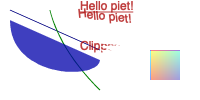
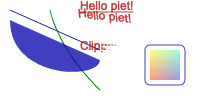
it compiles!

diff --git a/piet-raqote/src/lib.rs b/piet-raqote/src/lib.rs
@@ -1,11 +1,15 @@
 //! The Raqote backend for the Piet 2D graphics abstraction.
 
 // TODO: dpi scaling!!
+
+use std::borrow::Cow;
+
 use raqote::{
-    Spread, ExtendMode, DrawOptions, DrawTarget, Path, PathBuilder, Point, SolidSource, Source, Transform, Winding,
+    Color as RaqoteColor, DrawOptions, DrawTarget, ExtendMode, FilterMode, Path, PathBuilder,
+    Point, SolidSource, Source, Spread, Transform, Winding,
 };
 
-use piet::kurbo::{Affine, PathEl, Rect, Shape, Vec2};
+use piet::kurbo::{Affine, PathEl, Point as PietPoint, Rect, Shape, Vec2};
 
 use font_kit::family_name::FamilyName;
 use font_kit::properties::Properties;
@@ -14,9 +18,10 @@ use font_kit::source::SystemSource;
 use skribo::{make_layout, FontRef, Layout, TextStyle};
 
 use piet::{
-    new_error, Error, ErrorKind, FillRule, Font, FontBuilder, Gradient, GradientStop, ImageFormat,
-    InterpolationMode, LineCap, LineJoin, RenderContext, RoundFrom, RoundInto, StrokeStyle, Text,
-    TextLayout, TextLayoutBuilder, Color,
+    new_error, Color, Error, ErrorKind, FixedGradient, Font, FontBuilder, GradientStop,
+    HitTestPoint, HitTestTextPosition, ImageFormat, InterpolationMode, IntoBrush, LineCap,
+    LineJoin, RenderContext, RoundFrom, RoundInto, StrokeStyle, Text, TextLayout,
+    TextLayoutBuilder,
 };
 
 #[derive(Default)]
@@ -87,7 +92,7 @@ pub struct InternalImage {
 pub struct RaqotePoint(pub Point);
 
 fn split_rgba(rgba: Color) -> (u8, u8, u8, u8) {
-    let rgba = rgba.as_rgba32();
+    let rgba = rgba.as_rgba_u32();
     (
         (rgba >> 24) as u8,
         ((rgba >> 16) & 255) as u8,
@@ -129,9 +134,9 @@ fn affine_to_transform(affine: Affine) -> Transform {
     )
 }
 
-// Convert a RGBA u32 to a ARBG u32
-fn rgba_to_arbg(rgba: u32) -> u32 {
-    (rgba << 24) | (rgba >> 8)
+fn piet_color_to_raqote(color: Color) -> RaqoteColor {
+    let c = split_rgba(color);
+    RaqoteColor::new(c.3, c.0, c.1, c.2)
 }
 
 fn transform_image_to_rect(rect: Rect, image: &raqote::Image) -> Transform {
@@ -139,9 +144,9 @@ fn transform_image_to_rect(rect: Rect, image: &raqote::Image) -> Transform {
 
     dbg!(rect.width());
     dbg!(image.width);
-    let rect_width = rect.width();
-    let rect_height = rect.height();
-// 1 - (16 * 40 / 1000)
+    // let rect_width = rect.width();
+    // let rect_height = rect.height();
+    // 1 - (16 * 40 / 1000)
     let scale_width = (1. - (image.width as f64 * rect.width() / 1000.)) as f32;
     let scale_height = (1. - (image.height as f64 * rect.height() / 1000.)) as f32;
 
@@ -153,11 +158,11 @@ fn transform_image_to_rect(rect: Rect, image: &raqote::Image) -> Transform {
 
     let scale = Transform::create_scale(scale_width, scale_height);
 
-
     dbg!(scale_width * image.width as f32);
 
     // TODO: Move `inverse()` to Raqote
-    translate.post_mul(&scale)
+    // It used to be: translate.post_mul(&scale)
+    translate.post_transform(&scale)
 }
 
 fn shape_to_path(shape: impl Shape) -> Path {
@@ -197,18 +202,27 @@ fn convert_gradient_stops(stops: Vec<GradientStop>) -> Vec<raqote::GradientStop>
         .iter()
         .map(|stop| raqote::GradientStop {
             position: stop.pos,
-            color: rgba_to_arbg(stop.color.as_rgba32()),
+            color: piet_color_to_raqote(stop.color.clone()),
         })
         .collect()
 }
 
-impl<'a> RenderContext for RaqoteRenderContext<'a> {
-    // TODO: this should be a raqote Point (might have to wrap to impl as f32)
-    type Point = RaqotePoint;
-    type Coord = f32;
+#[derive(Clone)]
+pub struct RaqoteBrush<'a>(Source<'a>);
 
+impl<'a> IntoBrush<RaqoteRenderContext<'a>> for RaqoteBrush<'a> {
+    fn make_brush<'b>(
+        &'b self,
+        _piet: &mut RaqoteRenderContext,
+        _bbox: impl FnOnce() -> Rect,
+    ) -> std::borrow::Cow<'b, RaqoteBrush<'a>> {
+        Cow::Borrowed(self)
+    }
+}
+
+impl<'a> RenderContext for RaqoteRenderContext<'a> {
     // The render context must outlive the brush
-    type Brush = Source<'a>;
+    type Brush = RaqoteBrush<'a>;
 
     //QUESTION Text should of type TextLayout??
     // type Text: Text<TextLayout = Self::TextLayout>;
@@ -224,33 +238,37 @@ impl<'a> RenderContext for RaqoteRenderContext<'a> {
 
     fn solid_brush(&mut self, rgba: Color) -> Self::Brush {
         let (r, g, b, a) = split_rgba(rgba);
-        Source::Solid(SolidSource { r, g, b, a })
+        RaqoteBrush(Source::Solid(SolidSource { r, g, b, a }))
     }
 
-    fn gradient(&mut self, gradient: Gradient) -> Result<Self::Brush, Error> {
-        match gradient {
-            Gradient::Linear(gradient) => {
+    fn current_transform(&self) -> Affine {
+        self.current_transform()
+    }
+
+    fn gradient(&mut self, gradient: impl Into<FixedGradient>) -> Result<Self::Brush, Error> {
+        match gradient.into() {
+            FixedGradient::Linear(gradient) => {
                 let stops = convert_gradient_stops(gradient.stops);
                 let start = to_point((gradient.start.x, gradient.start.y));
                 let end = to_point((gradient.end.x, gradient.end.y));
 
-                Ok(Source::new_linear_gradient(
+                Ok(RaqoteBrush(Source::new_linear_gradient(
                     raqote::Gradient { stops },
                     start,
                     end,
-                    Spread::Pad
-                ))
+                    Spread::Pad,
+                )))
             }
-            Gradient::Radial(gradient) => {
+            FixedGradient::Radial(gradient) => {
                 let stops = convert_gradient_stops(gradient.stops);
                 let center = to_point((gradient.center.x, gradient.center.y));
 
-                Ok(Source::new_radial_gradient(
+                Ok(RaqoteBrush(Source::new_radial_gradient(
                     raqote::Gradient { stops },
                     center,
                     gradient.radius as f32,
-                    Spread::Pad
-                ))
+                    Spread::Pad,
+                )))
             }
         }
     }
@@ -262,35 +280,49 @@ impl<'a> RenderContext for RaqoteRenderContext<'a> {
         self.draw_target.clear(source);
     }
 
-    fn stroke(
+    fn stroke(&mut self, shape: impl Shape, brush: &impl IntoBrush<Self>, width: f64) {
+        let brush = brush.make_brush(self, || shape.bounding_box());
+        let path = shape_to_path(shape);
+
+        let mut stroke_style = raqote::StrokeStyle::default();
+
+        stroke_style.width = width.round_into();
+
+        self.draw_target
+            .stroke(&path, &brush.0, &stroke_style, &DrawOptions::default());
+    }
+
+    fn stroke_styled(
         &mut self,
         shape: impl Shape,
-        brush: &Self::Brush,
-        width: impl RoundInto<Self::Coord>,
-        style: Option<&StrokeStyle>,
+        brush: &impl IntoBrush<Self>,
+        width: f64,
+        style: &StrokeStyle,
     ) {
+        let brush = brush.make_brush(self, || shape.bounding_box());
         let path = shape_to_path(shape);
 
         // TODO: Factor this out
         let cap = style
-            .and_then(|style| style.line_cap)
+            .line_cap
             .map(convert_line_cap)
             .unwrap_or(raqote::LineCap::Butt);
 
         let join = style
-            .and_then(|style| style.line_join)
+            .line_join
             .map(convert_line_join)
             .unwrap_or(raqote::LineJoin::Miter);
 
         let width = width.round_into();
 
         let miter_limit = style
-            .and_then(|style| style.miter_limit)
+            .miter_limit
             .map(|miter_limit| miter_limit as f32)
             .unwrap_or(10.0);
 
         let (dash_array, dash_offset) = style
-            .and_then(|style| style.dash.as_ref())
+            .dash
+            .as_ref()
             .map(convert_dash)
             .unwrap_or_else(|| (vec![], 0.0));
 
@@ -304,28 +336,35 @@ impl<'a> RenderContext for RaqoteRenderContext<'a> {
         };
 
         self.draw_target
-            .stroke(&path, brush, &stroke_style, &DrawOptions::default());
+            .stroke(&path, &brush.0, &stroke_style, &DrawOptions::default());
     }
 
-    fn fill(&mut self, shape: impl Shape, brush: &Self::Brush, fill_rule: FillRule) {
+    fn fill(&mut self, shape: impl Shape, brush: &impl IntoBrush<Self>) {
+        let brush = brush.make_brush(self, || shape.bounding_box());
         let mut path = shape_to_path(shape);
 
-        path.winding = match fill_rule {
-            FillRule::EvenOdd => Winding::EvenOdd,
-            FillRule::NonZero => Winding::NonZero,
-        };
+        path.winding = Winding::NonZero;
 
-        self.draw_target.fill(&path, brush, &DrawOptions::default());
+        //TODO: &brush.0 doesn't feel right but it's the only thing
+        //I can get working
+        self.draw_target
+            .fill(&path, &brush.0, &DrawOptions::default());
     }
 
-    fn clip(&mut self, shape: impl Shape, fill_rule: FillRule) {
+    fn fill_even_odd(&mut self, shape: impl Shape, brush: &impl IntoBrush<Self>) {
+        let brush = brush.make_brush(self, || shape.bounding_box());
         let mut path = shape_to_path(shape);
 
-        path.winding = match fill_rule {
-            FillRule::EvenOdd => Winding::EvenOdd,
-            FillRule::NonZero => Winding::NonZero,
-        };
+        path.winding = Winding::EvenOdd;
 
+        self.draw_target
+            .fill(&path, &brush.0, &DrawOptions::default());
+    }
+
+    fn clip(&mut self, shape: impl Shape) {
+        let mut path = shape_to_path(shape);
+
+        path.winding = Winding::NonZero;
         //QUESTION we don't ever pop clip I hope that's okay?
         self.draw_target.push_clip(&path);
     }
@@ -339,10 +378,12 @@ impl<'a> RenderContext for RaqoteRenderContext<'a> {
     fn draw_text(
         &mut self,
         layout: &Self::TextLayout,
-        pos: impl RoundInto<Self::Point>,
-        brush: &Self::Brush,
+        pos: impl Into<PietPoint>,
+        brush: &impl IntoBrush<Self>,
     ) {
-        let pos = to_point(pos);
+        let brush = brush.make_brush(self, || Rect::ZERO);
+
+        let pos = to_point(pos.into());
 
         let positions = layout
             .layout
@@ -363,7 +404,7 @@ impl<'a> RenderContext for RaqoteRenderContext<'a> {
             layout.font.size,
             &glyphs,
             &positions,
-            brush,
+            &brush.0,
             &DrawOptions::default(),
         );
     }
@@ -475,7 +516,12 @@ impl<'a> RenderContext for RaqoteRenderContext<'a> {
         self.draw_target.fill(
             &path,
             //TODO figure out why scaling is off
-            &Source::Image(raqote_image, ExtendMode::Repeat, transform),
+            &Source::Image(
+                raqote_image,
+                ExtendMode::Repeat,
+                FilterMode::Bilinear,
+                transform,
+            ),
             &DrawOptions::default(),
         );
         // self.draw_target.draw_image_at(rect.x0 as f32, rect.y0 as f32, &raqote_image, &DrawOptions::default());
@@ -523,35 +569,25 @@ impl From<RaqotePoint> for Vec2 {
 }
 
 impl Text for RaqoteText {
-    type Coord = f32;
-
     type Font = RaqoteFont;
     type FontBuilder = RaqoteFontBuilder;
     type TextLayout = RaqoteTextLayout;
     type TextLayoutBuilder = RaqoteTextLayoutBuilder;
 
-    fn new_font_by_name(
-        &mut self,
-        name: &str,
-        size: impl RoundInto<Self::Coord>,
-    ) -> Result<Self::FontBuilder, Error> {
-        Ok(RaqoteFontBuilder {
+    fn new_font_by_name(&mut self, name: &str, size: f64) -> Self::FontBuilder {
+        RaqoteFontBuilder {
             family: name.to_owned(),
             size: size.round_into(),
             properties: Properties::new(),
-        })
+        }
     }
 
-    fn new_text_layout(
-        &mut self,
-        font: &Self::Font,
-        text: &str,
-    ) -> Result<Self::TextLayoutBuilder, Error> {
-        Ok(RaqoteTextLayoutBuilder {
+    fn new_text_layout(&mut self, font: &Self::Font, text: &str) -> Self::TextLayoutBuilder {
+        RaqoteTextLayoutBuilder {
             font: font.clone(),
             // TODO: Store a reference?
             text: text.to_owned(),
-        })
+        }
     }
 }
 
@@ -600,9 +636,15 @@ impl TextLayoutBuilder for RaqoteTextLayoutBuilder {
 }
 
 impl TextLayout for RaqoteTextLayout {
-    type Coord = f32;
+    fn width(&self) -> f64 {
+        self.layout.advance.x.into()
+    }
 
-    fn width(&self) -> f32 {
-        self.layout.advance.x
+    fn hit_test_point(&self, _point: PietPoint) -> HitTestPoint {
+        HitTestPoint::default()
+    }
+
+    fn hit_test_text_position(&self, _text_position: usize) -> Option<HitTestTextPosition> {
+        None
     }
 }

diff --git a/piet-raqote/examples/basic-raqote.rs b/piet-raqote/examples/basic-raqote.rs
@@ -2,7 +2,7 @@ use piet_raqote::RaqoteRenderContext;
 
 use piet_test::draw_test_picture;
 
-use raqote::{DrawOptions, DrawTarget, PathBuilder, SolidSource, Source};
+use raqote::{DrawTarget, SolidSource};
 
 const TEXTURE_WIDTH: i32 = 200;
 const TEXTURE_HEIGHT: i32 = 100;
